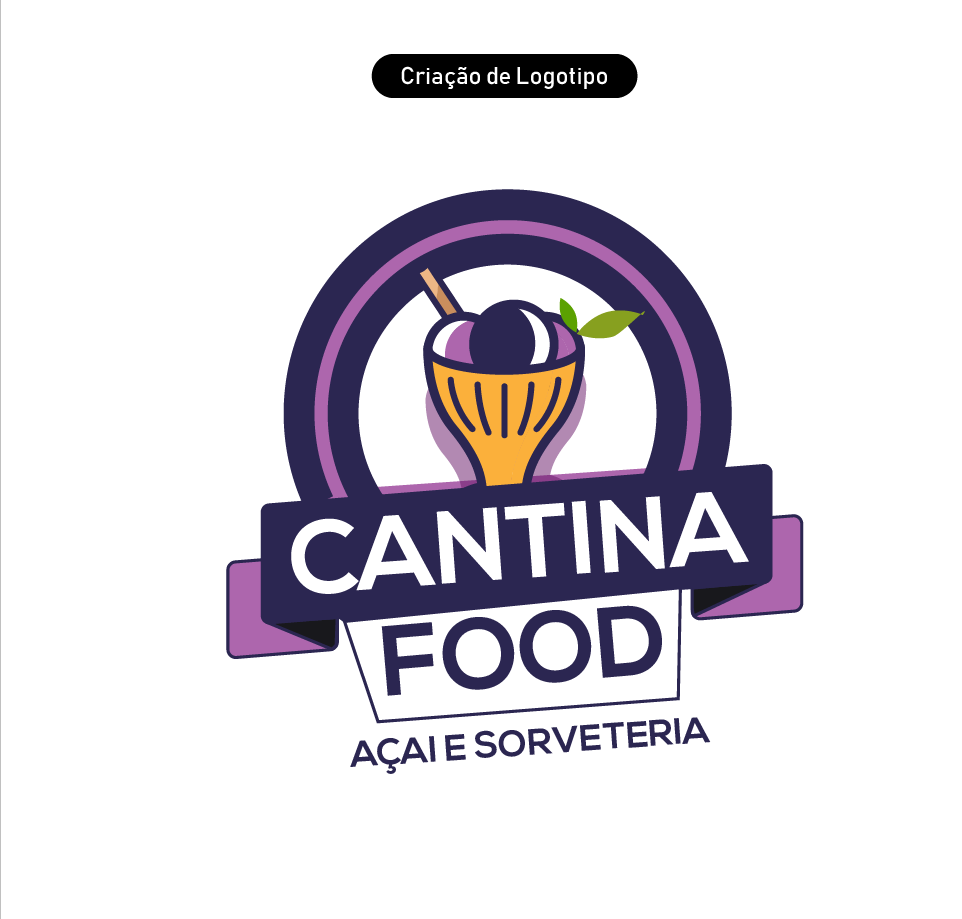
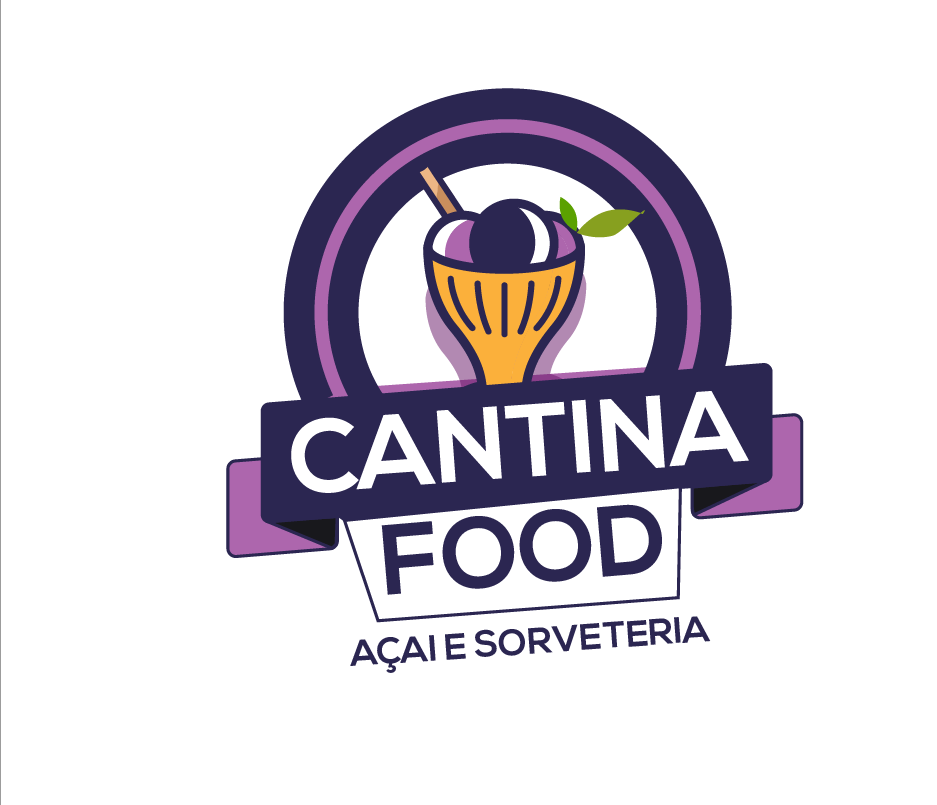
alteração

Changed region(s): [[0.2166, 0.0311, 0.8666, 0.8385]]

diff --git a/atv-1/index.html b/atv-1/index.html
@@ -8,7 +8,7 @@
 <body>
     <header>
         <div class="center">
-          <div class="logo"><img src="images /sorvete2.png" width="200px" /></div><!--logo-->
+          <div class="logo"><img src="images /sorvete1.png" width="250px" /></div><!--logo-->
           <div class="menu">
            <a href="#">Home</a>
            <a href="#">Catalogo</a>
@@ -17,5 +17,10 @@
           </div><!--menu-->
         </div><!--center-->
     </header>
+    <section class="sobre">
+        <div class="extras">
+        <img src="">
+        </div><!--extras-->
+    </section>   
 </body>
 </html>

diff --git a/atv-1/css/style.css b/atv-1/css/style.css
@@ -14,7 +14,16 @@
     padding:0 2%;
 }
  
+html,body{
+    height: 100%;
+    overflow-y: hidden;
+    overflow-x: hidden;
+}
+
+
+
 header{
+    height: 200px;
 
     padding:20px 0;
 }
@@ -33,4 +42,19 @@ header{
     text-decoration: none;
     font-weight: bold;
     margin-right: 15px;
+}
+
+section.sobre{
+    height: calc(100% - 200px);
+    position: relative;
+}
+
+.extras{
+    position: absolute;
+    bottom:-450px;
+    right:-500px;
+    width: 1000px;
+    height: 1000px;px;
+    border-radius: 50%;
+    background-color: purple;
 }
